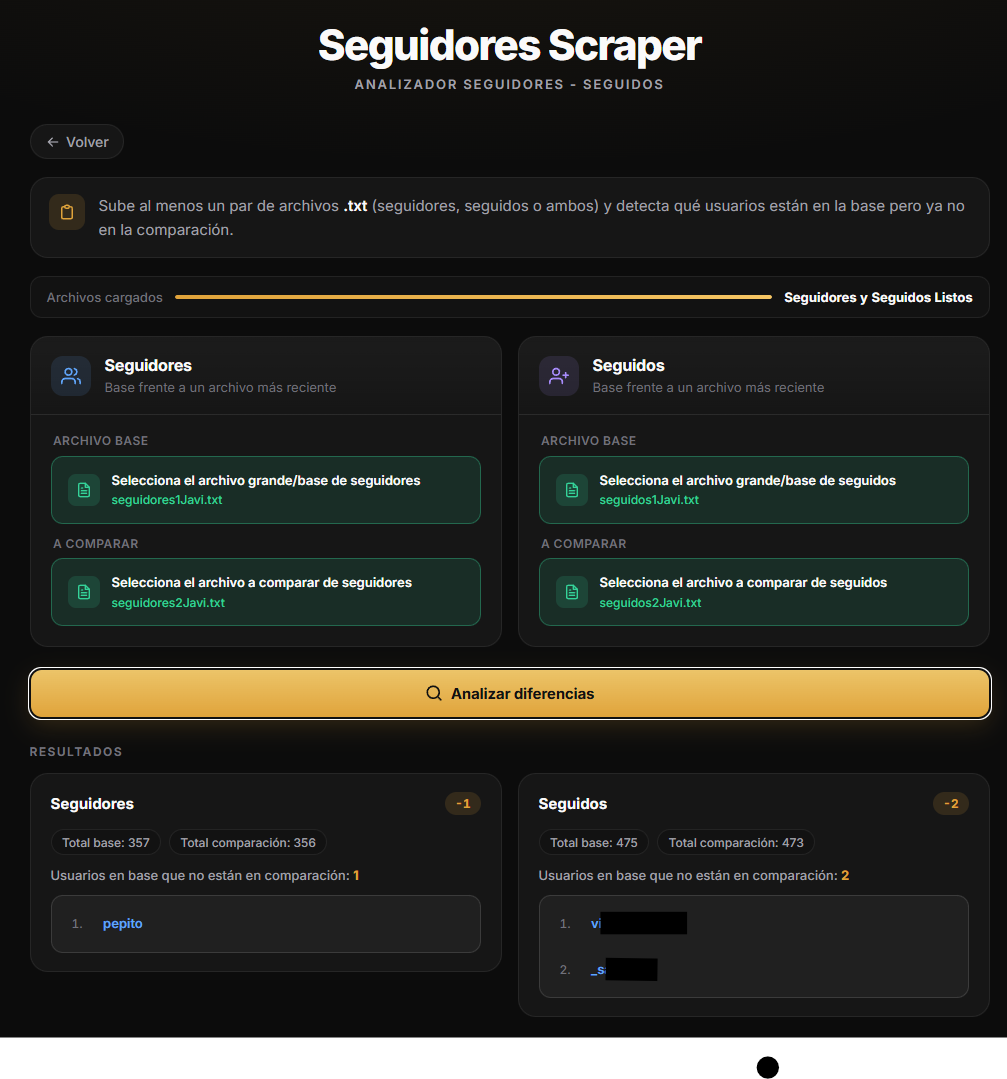
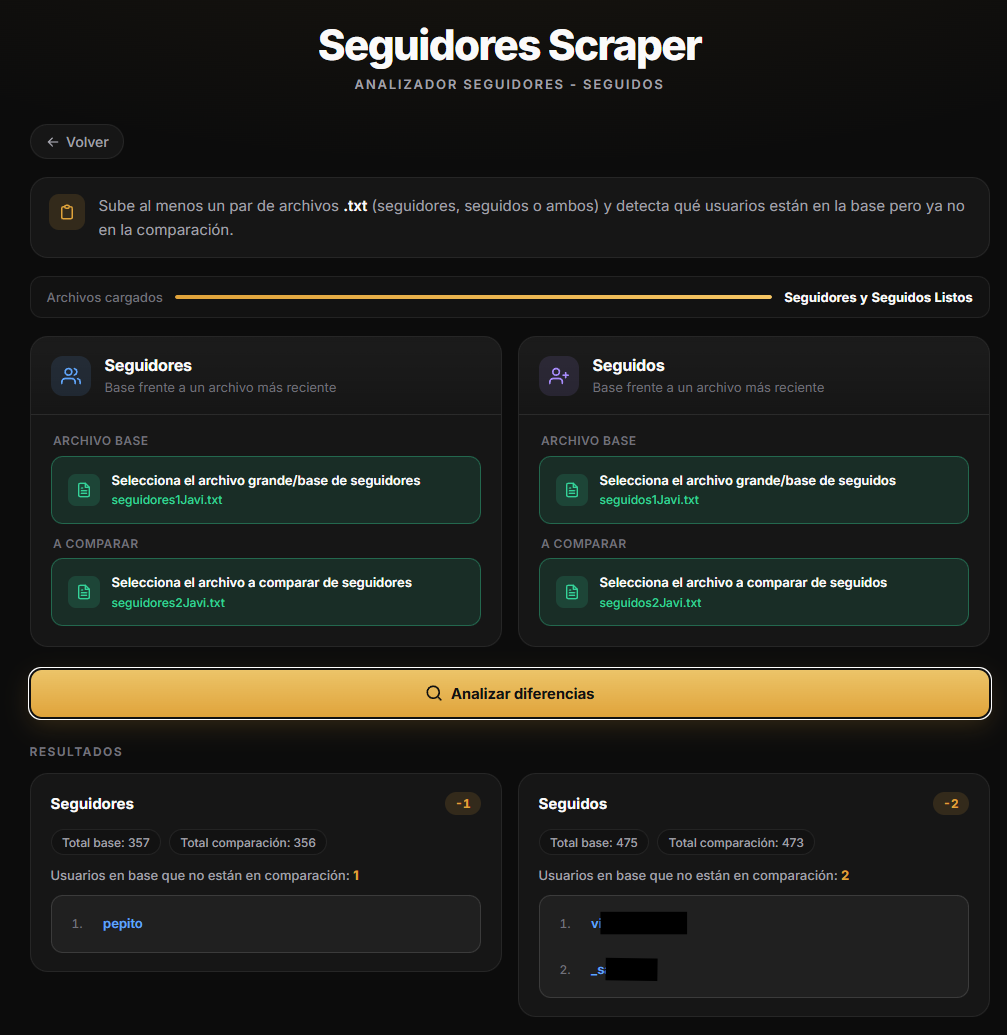
docs: v0.1.7 update README with new sections for copying code and using the console + update images

Changed region(s): [[0.0308, 0.1237, 0.9851, 0.8966], [0.0, 0.742, 1.0, 1.0], [0.3078, 0.0309, 0.708, 0.0928]]

diff --git a/README.md b/README.md
@@ -16,50 +16,56 @@
   <a href="https://josejavierdiazgonzalez.github.io/seguidores-scraper/analizador/">Analizador</a>
 </p>
 
-<br>
+---
 
-<h3 align="center">1 · Copy code</h3>
-<p align="center">Abre <a href="https://josejavierdiazgonzalez.github.io/seguidores-scraper/extraer/">extraer</a> y pulsa <strong>Copy code</strong>.</p>
+## 1 · Copiar código
+
+Entra en [Extraer](https://josejavierdiazgonzalez.github.io/seguidores-scraper/extraer/), pulsa **Copy code** y copia el script.
+
 <p align="center">
   <img src="images/01-extraer-copy-code.gif" alt="Pagina extraer con Copy code" width="480">
 </p>
 
-<br>
+---
 
-<h3 align="center">2 · Consola de Instagram</h3>
-<p align="center">Perfil → <code>F12</code> → <strong>Console</strong> → pega y <strong>Enter</strong>.</p>
+## 2 · Consola de Instagram
+
+Abre tu perfil, pulsa `F12`, ve a **Console**, pega el código y pulsa **Enter**.
+
 <p align="center">
   <img src="images/02-consola-pegar-ejecutar.gif" alt="Consola: pegar y ejecutar el script" width="747">
 </p>
 
-<br>
+---
 
-<h3 align="center">3 · Descargar .txt</h3>
-<p align="center">Al terminar, descarga seguidores y seguidos. El nombre debe empezar por <code>seguidores</code> o <code>seguidos</code>.</p>
+## 3 · Descargar `.txt`
+
+Cuando termine el proceso, descarga seguidores y seguidos. Nómbralos empezando por `seguidores` o `seguidos`.
+
 <p align="center">
   <img src="images/03-extraer-descargar-txt.png" alt="Descargar seguidores y seguidos" width="360">
 </p>
 
-<br>
+---
 
-<h3 align="center">4 · Analizador</h3>
-<p align="center">Abre <a href="https://josejavierdiazgonzalez.github.io/seguidores-scraper/analizador/">analizador</a>, carga los <code>.txt</code> y elige <strong>base</strong> y <strong>comparación</strong>.</p>
+## 4 · Analizador
+
+En [Analizador](https://josejavierdiazgonzalez.github.io/seguidores-scraper/analizador/), sube los archivos y elige cuál es la **base** y cuál la **comparación** (seguidores y seguidos por separado).
+
 <p align="center">
   <img src="images/04-analizador-comparacion.png" alt="Analizador: comparacion de seguidores y seguidos" width="747">
 </p>
 
-<br>
+---
 
-<p align="center"><sub>Usa estas herramientas solo sobre <strong>tu cuenta</strong> o con permiso. Respeta los términos de Instagram y la privacidad de terceros.</sub></p>
-
-<br>
+<sub>Usa estas herramientas solo sobre **tu cuenta** o con permiso. Respeta los términos de Instagram y la privacidad de terceros.</sub>
 
 <details>
 <summary><strong>Clonar el repo y ejecutarlo en local</strong></summary>
 
 <br>
 
-Solo si quieres modificar el código, usar el comparador en terminal o desplegar tu propia copia.
+Para modificar el código, usar el comparador en terminal o desplegar tu propia copia.
 
 ### Requisitos
 
